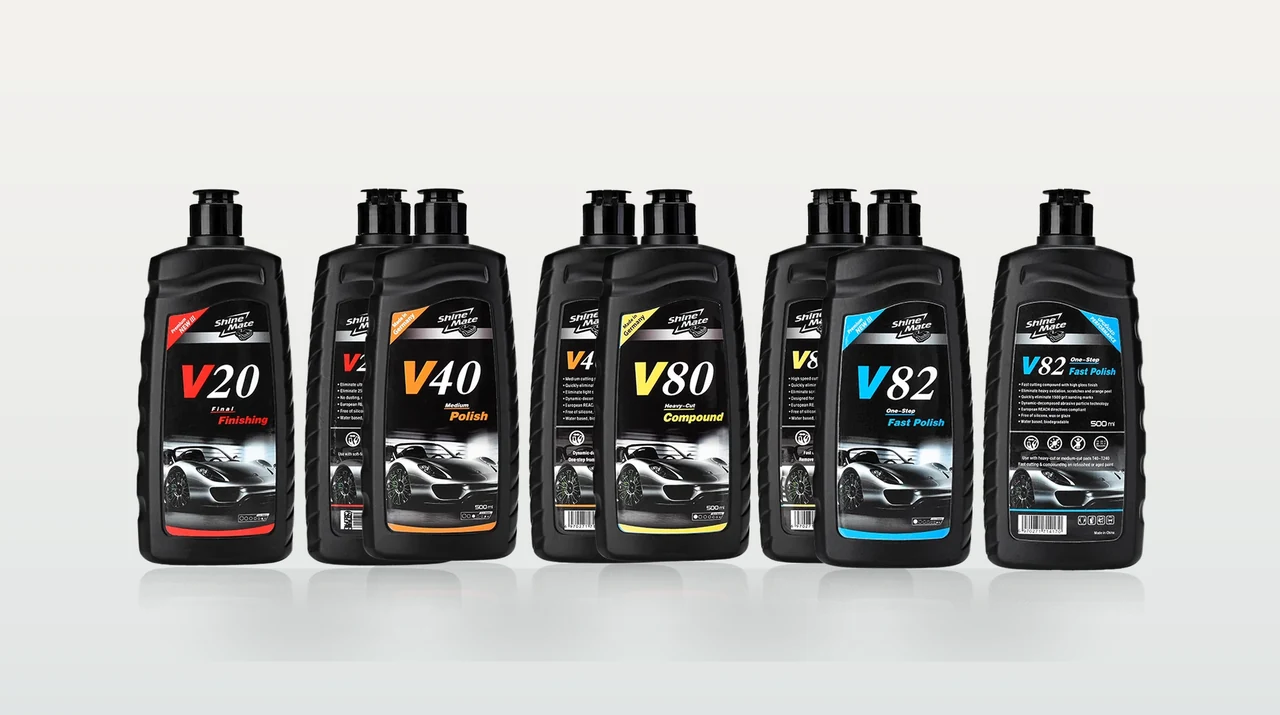
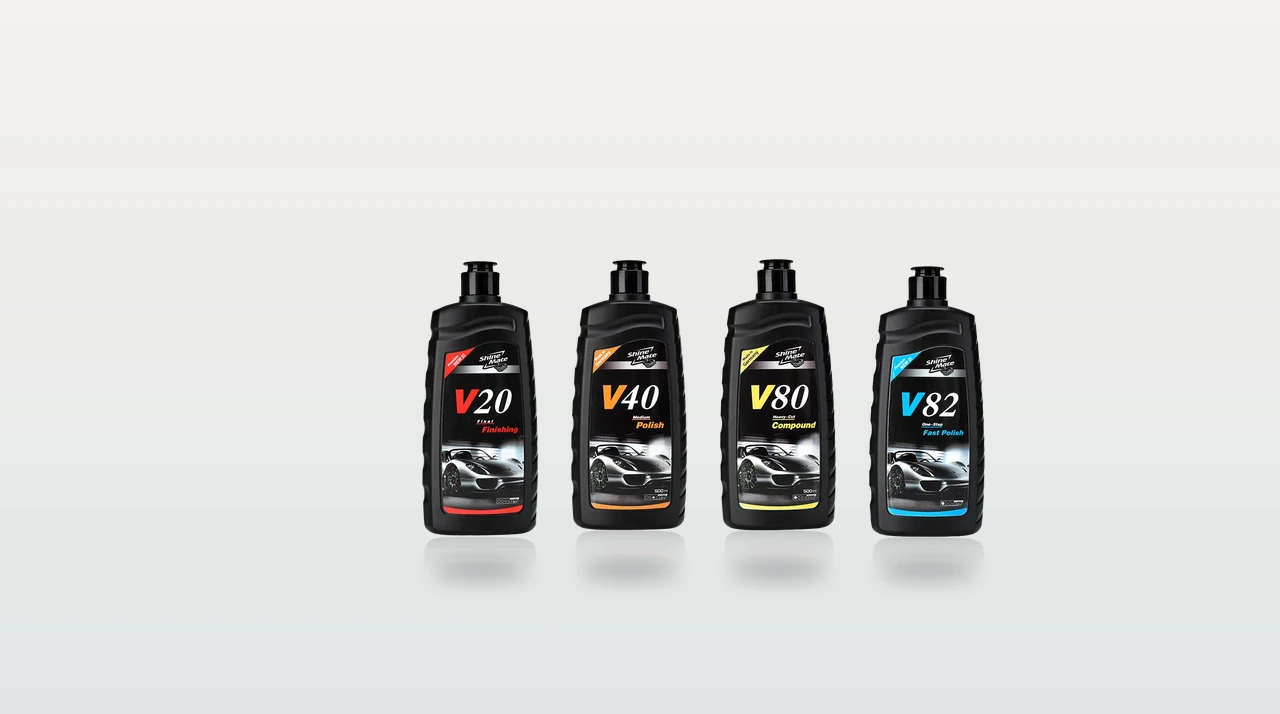
Правки по архиву Андрея: фото паст, «безупречный результат», контент Технологий и О ShineMate
Хиро-слайд паст: 4 бутылки лицом (раньше исходники вендора шли парами
«лицо + оборот», из-за чего в кадре было 8 мелких), крупнее, ниже и
левее — не липнут к правому верхнему углу.

Заголовок первого слайда: «безупречного отражения» → «результата».

Технологии: вместо корпоративной справки — практическая карта подбора
связки «паста + круг» по 4 стадиям обработки, с дефектами под каждую
стадию. Данные с официальной таблицы применения ShineMate из скринов
Андрея (V80/V82 → V40 → V20, шерсть T160/T140, поролон T120–T10,
микрофибра T100/T20).

О ShineMate: убрана справка про завод в Чжэцзяне и 80+ стран — сайт
дилерский, мы продаём оборудование, а не производим. Вместо неё —
сферы применения линейки; на странице добавлен обзор всех 8 разделов
каталога, чтобы она отличалась от короткого блока на главной.

diff --git a/src/components/scenes/PolishingProcess.tsx b/src/components/scenes/PolishingProcess.tsx
@@ -1,0 +1,166 @@
+import { motion } from 'framer-motion'
+
+import { useReducedMotion } from '../../hooks/useReducedMotion'
+import { revealProps, rise, riseProps, stagger } from '../../lib/motion'
+
+/**
+ * Этапы обработки и что на каждом применяется.
+ *
+ * Данные — с официальной «Таблицы применения» ShineMate (shinemate.com,
+ * раздел Технологии): те же четыре стадии, те же дефекты и те же градации
+ * кругов и паст. Ничего не додумано — это карта подбора, по которой мастер
+ * реально выбирает связку «паста + круг», а не рекламный текст.
+ */
+type Stage = {
+  index: string
+  title: string
+  goal: string
+  defects: string[]
+  paste: string
+  pads: { kind: string; grade: string }[]
+}
+
+const STAGES: Stage[] = [
+  {
+    index: '01',
+    title: 'Шлифование',
+    goal: 'Снять грубые дефекты до полировки',
+    defects: ['Глубокие царапины', 'Апельсиновая корка', 'Перелив краски'],
+    paste: 'Без пасты — абразивные диски 2000/3000',
+    pads: [{ kind: 'Шлифовальная машина', grade: 'ES516 · ES700' }],
+  },
+  {
+    index: '02',
+    title: 'Тяжёлая коррекция',
+    goal: 'Убрать след шлифовки и сильное окисление',
+    defects: ['Сильное окисление', 'Следы шлифовального диска', 'Глубокие голограммы'],
+    paste: 'V80 Heavy-Cut · V82 Fast Polish',
+    pads: [
+      { kind: 'Шерсть', grade: 'T160 высокий ворс · T140 короткий' },
+      { kind: 'Поролон', grade: 'T120 зелёный · T80 жёлтый' },
+    ],
+  },
+  {
+    index: '03',
+    title: 'Полировка',
+    goal: 'Выровнять поверхность и убрать среднюю дефектность',
+    defects: ['Лёгкие царапины', 'Среднее окисление', 'Выраженные разводы'],
+    paste: 'V40 Medium Polish',
+    pads: [
+      { kind: 'Поролон', grade: 'T60 синий · T40 оранжевый' },
+      { kind: 'Микрофибра', grade: 'T100 — рез' },
+    ],
+  },
+  {
+    index: '04',
+    title: 'Финиш',
+    goal: 'Вывести чистый глубокий блеск',
+    defects: ['Царапины от мойки', 'Тончайшие разводы', 'Голограммы', 'Мутность'],
+    paste: 'V20 Final Finish',
+    pads: [
+      { kind: 'Поролон', grade: 'T20 · T10 красный' },
+      { kind: 'Микрофибра', grade: 'T20 — финиш' },
+    ],
+  },
+]
+
+export function PolishingProcess() {
+  const reduced = useReducedMotion()
+
+  return (
+    <section className="scene relative bg-porcelain py-24 sm:py-28 md:py-36">
+      <div className="shell">
+        <motion.div {...revealProps(reduced, stagger(0, 0.09))}>
+          <motion.p variants={rise} className="eyebrow">
+            Подбор связки
+          </motion.p>
+          <motion.h2 variants={rise} className="h2 mt-5 max-w-[18ch]">
+            Какой круг и пасту брать под задачу
+          </motion.h2>
+          <motion.p
+            variants={rise}
+            className="lead mt-6 max-w-[54ch] text-graphite/65"
+          >
+            Обработка идёт стадиями: от снятия грубых дефектов до финишного
+            блеска. На каждой стадии — своя пара «паста + круг», и именно от
+            неё зависит результат.
+          </motion.p>
+        </motion.div>
+
+        <div className="mt-14 grid gap-px overflow-hidden rounded-2xl bg-graphite/[0.12] md:mt-16 md:grid-cols-2 xl:grid-cols-4">
+          {STAGES.map((stage, i) => (
+            <motion.article
+              key={stage.index}
+              {...revealProps(reduced, stagger(Math.min(i, 3) * 0.08, 0.06))}
+              className="flex flex-col bg-porcelain p-7 sm:p-8"
+            >
+              <motion.p
+                variants={rise}
+                className="font-mono text-[0.625rem] uppercase tracking-[0.16em] text-titanium"
+              >
+                {stage.index}
+              </motion.p>
+              <motion.h3 variants={rise} className="mt-4 text-2xl tracking-tight">
+                {stage.title}
+              </motion.h3>
+              <motion.p
+                variants={rise}
+                className="mt-2.5 text-[0.875rem] leading-relaxed text-graphite/60"
+              >
+                {stage.goal}
+              </motion.p>
+
+              <motion.div variants={rise} className="mt-7 border-t border-graphite/[0.12] pt-5">
+                <p className="font-mono text-[0.625rem] uppercase tracking-[0.14em] text-titanium">
+                  Что убирает
+                </p>
+                <ul className="mt-3 space-y-1.5">
+                  {stage.defects.map((d) => (
+                    <li key={d} className="text-[0.8125rem] leading-relaxed text-graphite/70">
+                      {d}
+                    </li>
+                  ))}
+                </ul>
+              </motion.div>
+
+              <motion.div variants={rise} className="mt-6 border-t border-graphite/[0.12] pt-5">
+                <p className="font-mono text-[0.625rem] uppercase tracking-[0.14em] text-titanium">
+                  Паста
+                </p>
+                <p className="mt-2.5 text-[0.875rem] leading-relaxed text-graphite">
+                  {stage.paste}
+                </p>
+              </motion.div>
+
+              <div className="flex-1" />
+
+              <motion.div variants={rise} className="mt-6 border-t border-graphite/[0.12] pt-5">
+                <p className="font-mono text-[0.625rem] uppercase tracking-[0.14em] text-titanium">
+                  Круг
+                </p>
+                <dl className="mt-2.5 space-y-2">
+                  {stage.pads.map((pad) => (
+                    <div key={pad.kind}>
+                      <dt className="text-[0.75rem] text-graphite/45">{pad.kind}</dt>
+                      <dd className="mt-0.5 text-[0.875rem] leading-relaxed text-graphite">
+                        {pad.grade}
+                      </dd>
+                    </div>
+                  ))}
+                </dl>
+              </motion.div>
+            </motion.article>
+          ))}
+        </div>
+
+        <motion.p
+          {...riseProps(reduced, { y: 20, amount: 0.3 })}
+          className="mt-8 max-w-[62ch] text-[0.8125rem] leading-relaxed text-graphite/50"
+        >
+          Схема подбора — по официальной таблице применения ShineMate. Точную
+          связку под ваше покрытие и объём работ подскажем по запросу.
+        </motion.p>
+      </div>
+    </section>
+  )
+}

diff --git a/src/App.tsx b/src/App.tsx
@@ -12,6 +12,7 @@ import { Contact } from './components/scenes/Contact'
 import { Engineering } from './components/scenes/Engineering'
 import { FeaturedModels } from './components/scenes/FeaturedModels'
 import { Hero } from './components/scenes/Hero'
+import { PolishingProcess } from './components/scenes/PolishingProcess'
 import { ProductObject } from './components/scenes/ProductObject'
 import { ReflectionReveal } from './components/scenes/ReflectionReveal'
 import { ScrollStage } from './components/scenes/ScrollStage'
@@ -64,14 +65,19 @@ export default function App() {
           <CatalogView category={route.category} onOpenProduct={setOpenProduct} />
         </main>
       ) : route.name === 'about' ? (
-        // Отдельная страница "О ShineMate" — тот же блок, что и на главной,
-        // но по своему URL: клик по пункту меню открывает новую страницу,
-        // а не скроллит к разделу на главной (см. router.ts).
+        // Страница бренда: кто такие + из чего состоит линейка. Разделы
+        // каталога здесь дают то, чего нет в коротком блоке на главной —
+        // обзор всего ассортимента, а не одной флагманской модели.
         <main className="pt-[4.5rem]">
           <ProductObject />
+          <CategoryNavigator />
         </main>
       ) : route.name === 'technologies' ? (
+        // "Технологии" — это не рассказ про завод (мы дилер, а не
+        // производитель), а практическая карта подбора связки
+        // «паста + круг» по стадиям обработки, плюс ключевые цифры линейки.
         <main className="pt-[4.5rem]">
+          <PolishingProcess />
           <Engineering />
         </main>
       ) : route.name === 'contacts' ? (

diff --git a/src/components/scenes/ProductObject.tsx b/src/components/scenes/ProductObject.tsx
@@ -50,13 +50,14 @@ export function ProductObject() {
             платформы, подложки, круги и пасты. Линейка собрана так, чтобы машина,
             подложка и круг работали как один инструмент.
           </motion.p>
-          {/* Компания продаёт не только в РФ — до бренда доходит контекст масштаба,
-              а не сразу спецификация одной модели. Цифры — с shinemate.com/globals
-              и news.html (раздел Application fields), не выдуманы. */}
+          {/* Про завод и производство здесь сознательно ничего нет: сайт —
+              это дилер, который продаёт оборудование, а не производитель.
+              Вместо корпоративной справки — то, что реально помогает выбрать:
+              под какие задачи и поверхности рассчитана линейка. */}
           <motion.p variants={rise} className="mt-4 max-w-[46ch] text-[0.9375rem] leading-relaxed text-graphite/60">
-            Завод в провинции Чжэцзян (Китай) — 15 000+ м² — производит оборудование,
-            которое продаётся в 80+ странах для 1000+ компаний: автополировка, мебель,
-            судостроение и промышленное производство.
+            Инструмент рассчитан не только на кузов: тем же набором машин, кругов
+            и паст работают по яхтам, мебели и промышленным поверхностям — от
+            тяжёлой коррекции лака до финишного блеска.
           </motion.p>
         </motion.div>
 

diff --git a/src/components/scenes/Hero.tsx b/src/components/scenes/Hero.tsx
@@ -28,7 +28,7 @@ const SLIDES: Slide[] = [
   {
     slug: 'hero',
     alt: 'Линейка оборудования ShineMate: роторная и эксцентриковые машинки, полировальный круг и состав V-Range',
-    lines: ['Технология', 'безупречного', 'отражения'],
+    lines: ['Технология', 'безупречного', 'результата'],
     dim: [1],
     lead: 'Профессиональное оборудование для точной, быстрой и контролируемой работы с лакокрасочным покрытием.',
   },
